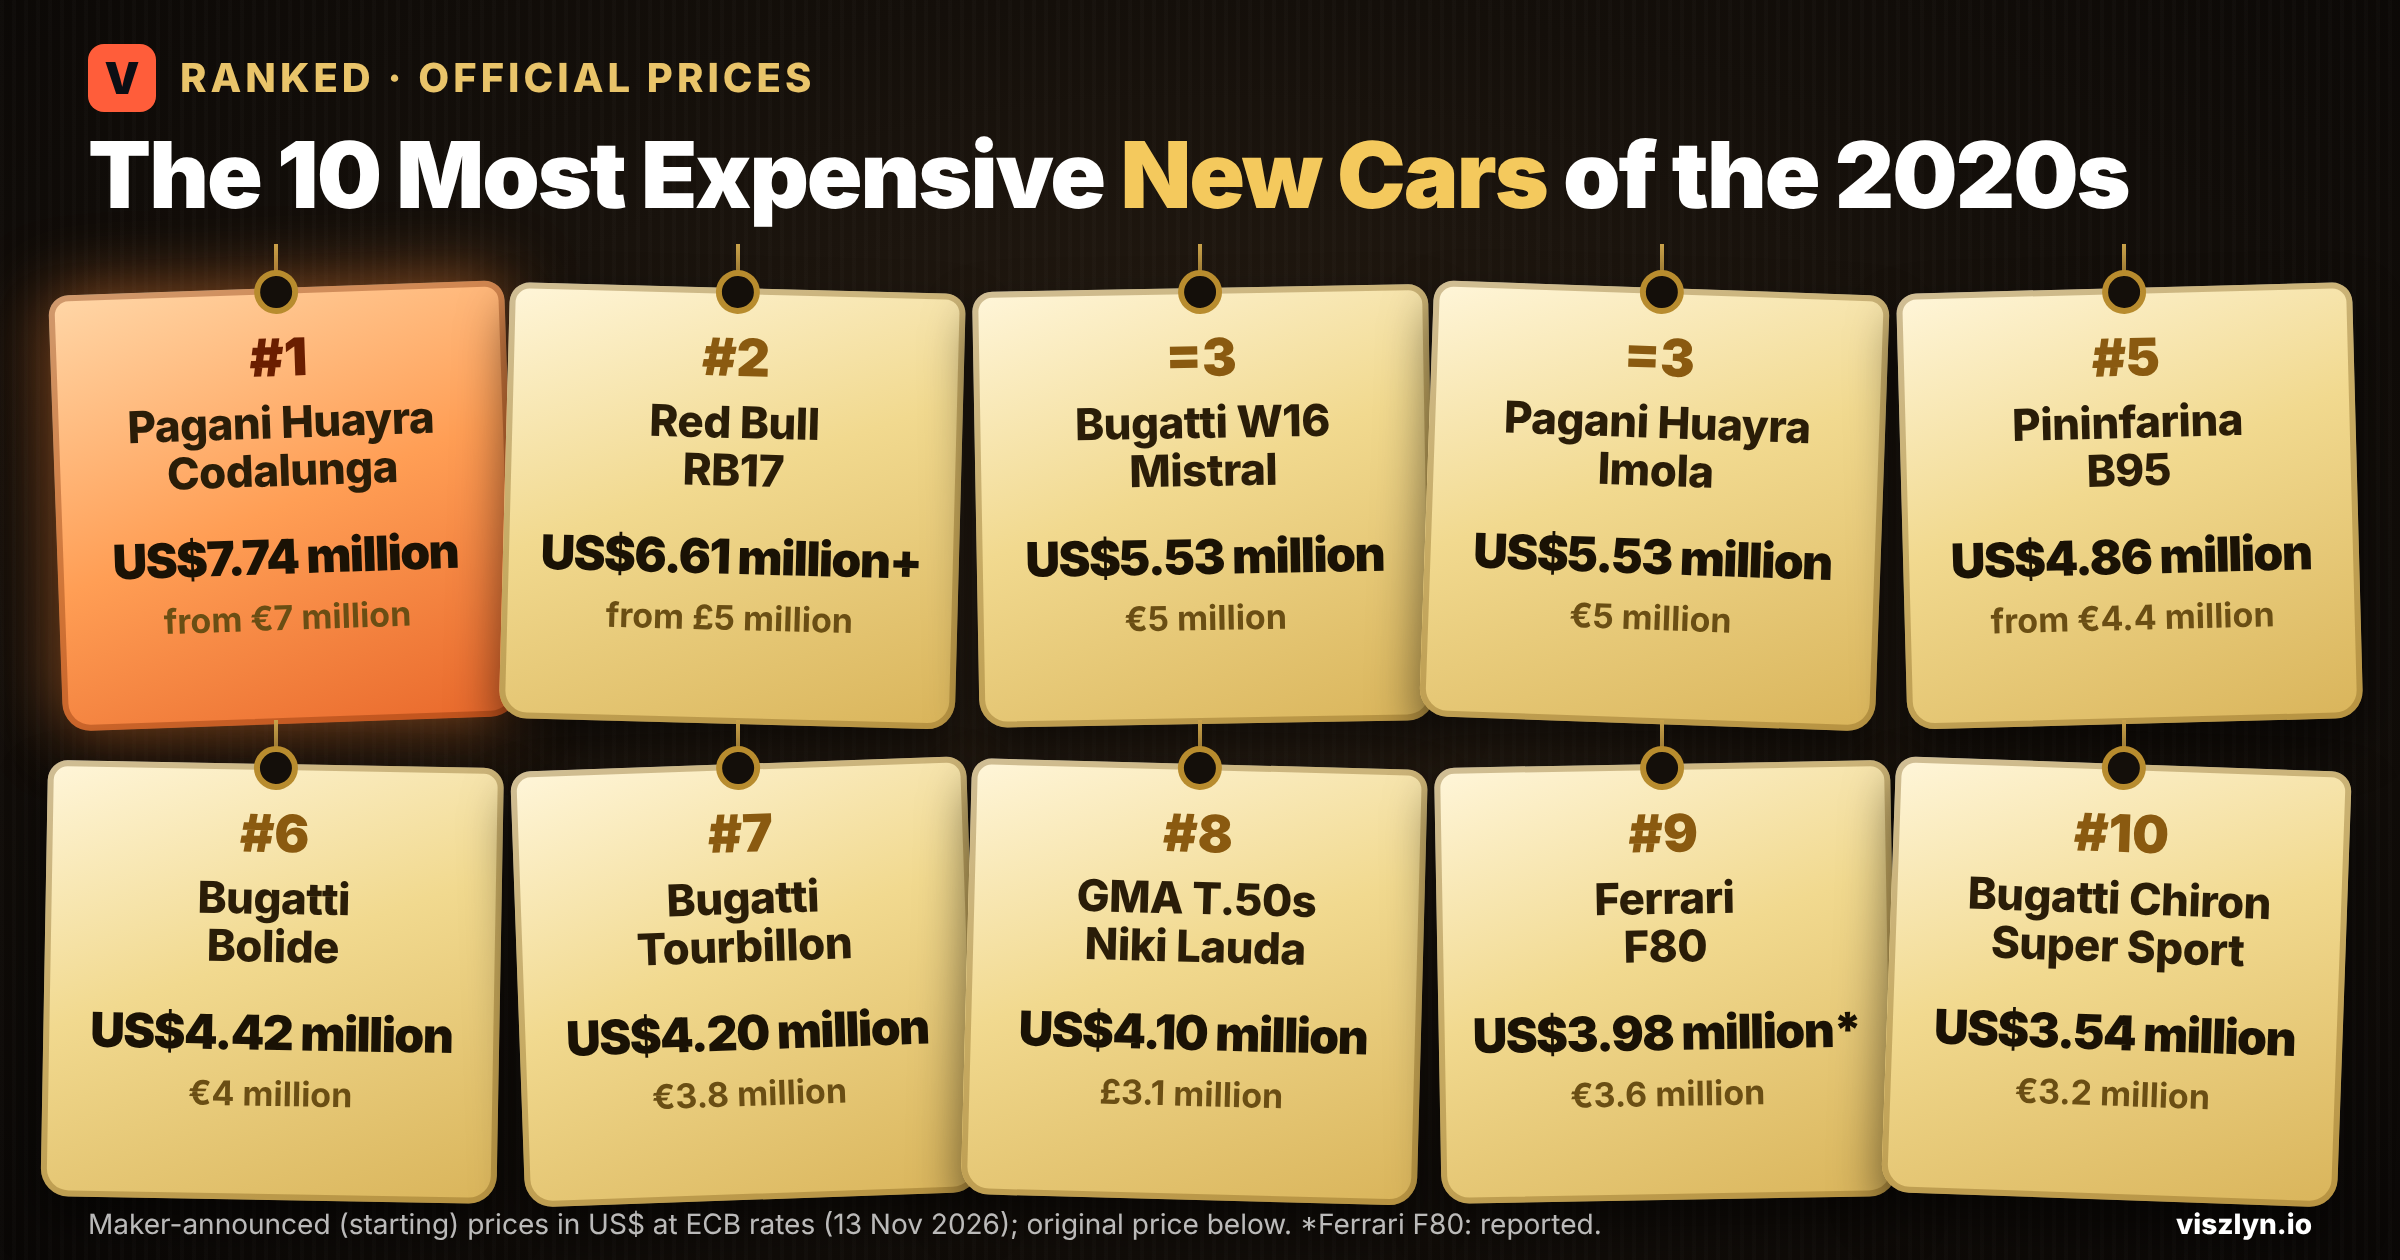
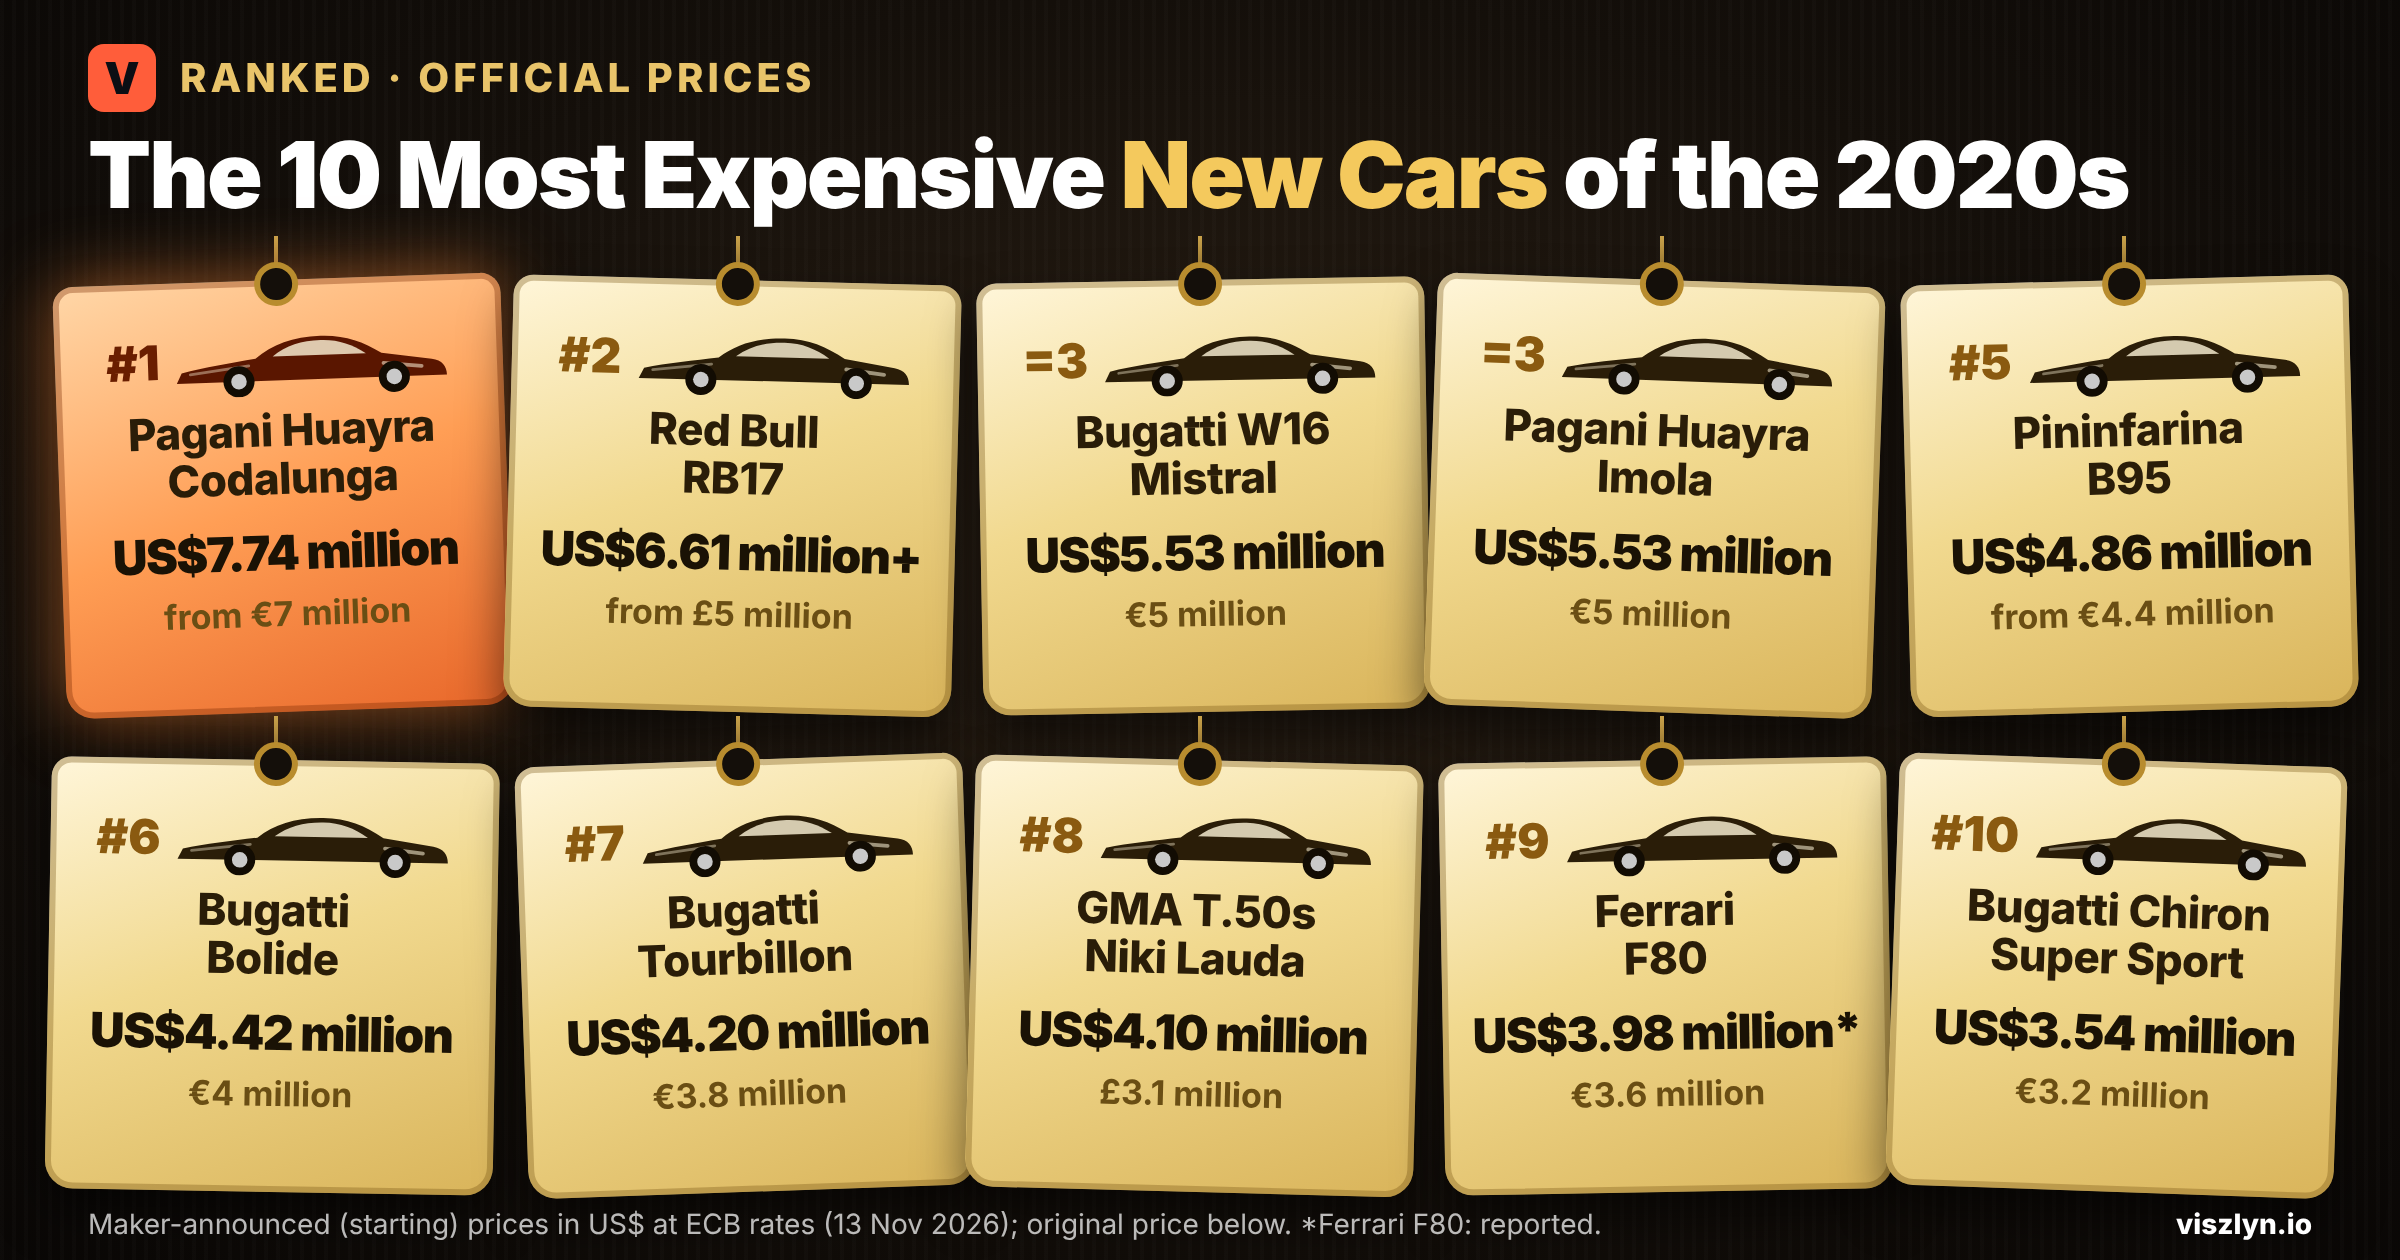
Cars Discover image: hypercar silhouette on every price tag so it reads as cars at feed size
Claude-Session: https://claude.ai/code/session_01Lx7Mnbsr2j6Zre36XCS9Kp

Changed region(s): [[0.0, 0.1857, 1.0, 0.9595]]

diff --git a/src/data/rankings/most-expensive-new-cars-2026.ts b/src/data/rankings/most-expensive-new-cars-2026.ts
@@ -25,7 +25,7 @@ export const mostExpensiveNewCars2026: RankingArticle = {
     src: "/heroes/most-expensive-new-cars-2026.png",
     onPage: false,
     ogSrc: "/heroes/most-expensive-new-cars-2026-og.png",
-    alt: "Gold price tags for the 10 most expensive new cars of the 2020s, with prices in US dollars: Pagani Huayra Codalunga US$7.74 million (from €7 million), Red Bull RB17 from US$6.61 million (from £5 million), Bugatti W16 Mistral and Pagani Huayra Imola US$5.53 million (€5 million), Automobili Pininfarina B95 US$4.86 million, Bugatti Bolide US$4.42 million, Bugatti Tourbillon US$4.20 million, GMA T.50s Niki Lauda US$4.10 million, Ferrari F80 US$3.98 million (reported) and Bugatti Chiron Super Sport US$3.54 million.",
+    alt: "Gold price tags, each with a hypercar silhouette, for the 10 most expensive new cars of the 2020s, with prices in US dollars: Pagani Huayra Codalunga US$7.74 million (from €7 million), Red Bull RB17 from US$6.61 million (from £5 million), Bugatti W16 Mistral and Pagani Huayra Imola US$5.53 million (€5 million), Automobili Pininfarina B95 US$4.86 million, Bugatti Bolide US$4.42 million, Bugatti Tourbillon US$4.20 million, GMA T.50s Niki Lauda US$4.10 million, Ferrari F80 US$3.98 million (reported) and Bugatti Chiron Super Sport US$3.54 million.",
   },
 
   quickAnswer:
